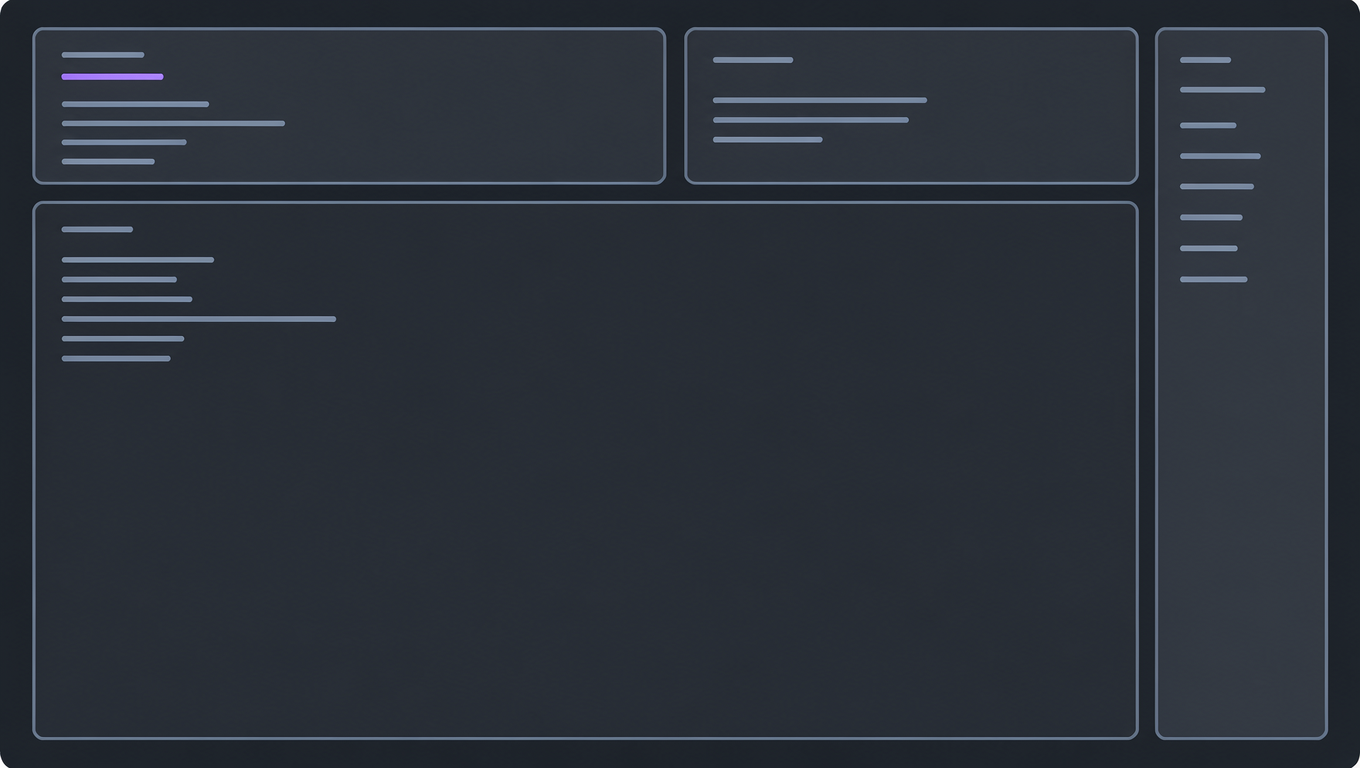
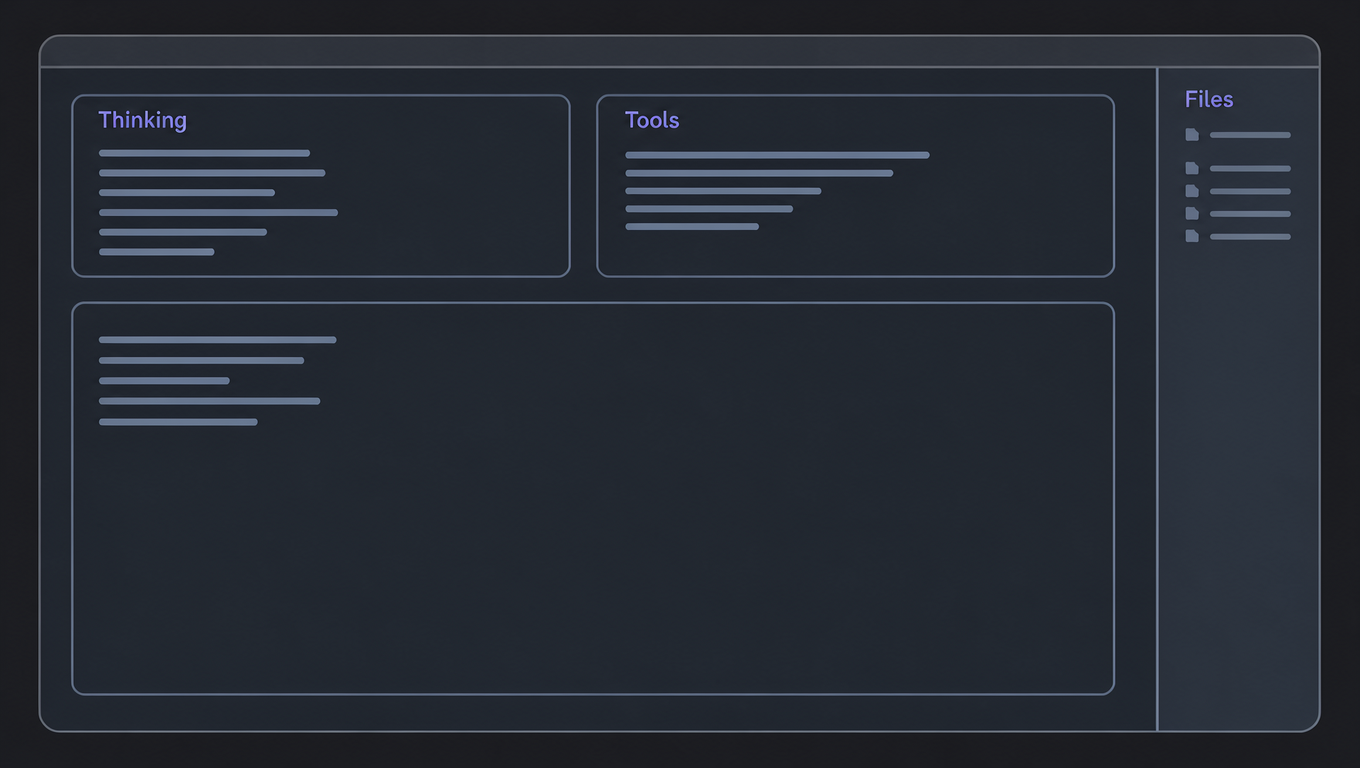
Gallery preview v2 with panel headings (Thinking/Tools/Files); add npm route to install docs

diff --git a/README.md b/README.md
@@ -66,6 +66,8 @@ The three files are plain TypeScript loaded by pi's extension discovery — no b
 # install as a pi package (npm or git)
 pi install npm:pi-split-view
 pi install git:github.com/Hugo-W/pi-split-view
+# try it once without installing
+pi -e npm:pi-split-view
 
 # or copy the sources into your pi agent extensions dir
 cp split-view.ts layout-manager.ts ui-panels-config.ts ~/.pi/agent/extensions/
